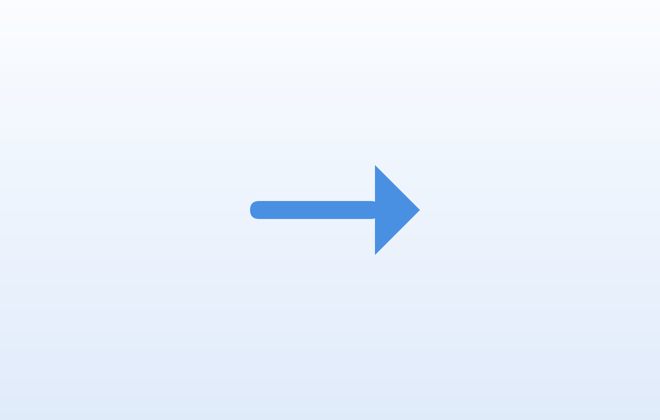
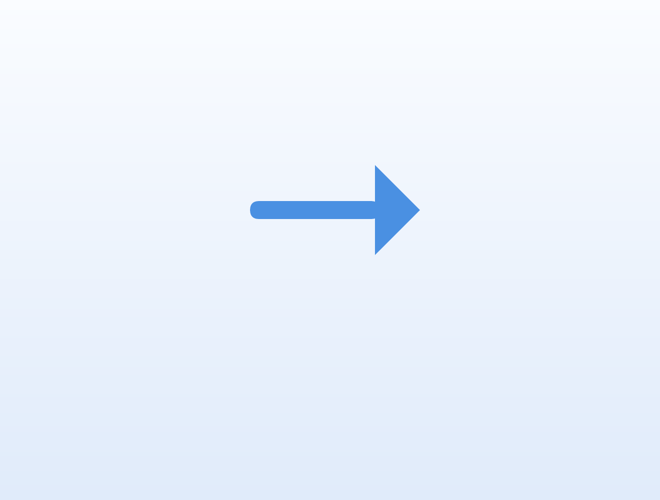
fix: extend the DMG window so the instructions label fits
The 420pt window left the How to open.txt label below the visible bounds. Grow the window to 660x500, regenerate the background at that size and place the instructions icon at y=350; the app and Applications icons stay at y=210.

Changed region(s): [[0.3636, 0.3405, 0.6364, 0.619]]

diff --git a/scripts/dmgbuild-settings.py b/scripts/dmgbuild-settings.py
@@ -27,12 +27,12 @@ icon_locations = {
 if instructions:
     instructions_name = "How to open.txt"
     files.append((instructions, instructions_name))
-    # Centred below the app and Applications icons. The two icon labels end
-    # around y=310, the arrow drawn between them spans y=165..255, and this
-    # icon (128pt tall, centred at y=325) sits clear of both.
-    icon_locations[instructions_name] = (330, 325)
+    # Centred below the app and Applications icons. The window is taller than
+    # the two top icons need (the top bar is included in the bounds), so this
+    # icon sits at y=350 with room for its label below.
+    icon_locations[instructions_name] = (330, 350)
 
-window_rect = ((200, 200), (660, 420))
+window_rect = ((200, 200), (660, 500))
 default_view = "icon-view"
 icon_size = 128
 text_size = 13

diff --git a/examples/gen_dmg_background.rs b/examples/gen_dmg_background.rs
@@ -9,15 +9,15 @@ use tiny_skia::{
     SpreadMode, Transform,
 };
 
-/// The DMG window is 660x420 points; we render at 2x for Retina displays.
+/// The DMG window is 660x500 points; we render at 2x for Retina displays.
 const SCALE: f32 = 2.0;
 const WIDTH: u32 = 660 * 2;
-const HEIGHT: u32 = 420 * 2;
+const HEIGHT: u32 = 500 * 2;
 
 fn main() -> Result<(), Box<dyn std::error::Error>> {
     let mut pixmap = Pixmap::new(WIDTH, HEIGHT).expect("create pixmap");
 
-    let background = rect(0.0, 0.0, 660.0, 420.0).ok_or("background path")?;
+    let background = rect(0.0, 0.0, 660.0, 500.0).ok_or("background path")?;
     let gradient = LinearGradient::new(
         Point::from_xy(0.0, 0.0),
         Point::from_xy(0.0, HEIGHT as f32),
